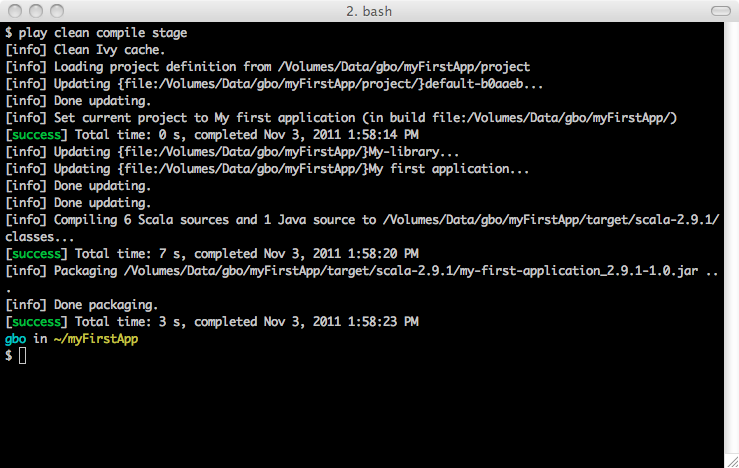
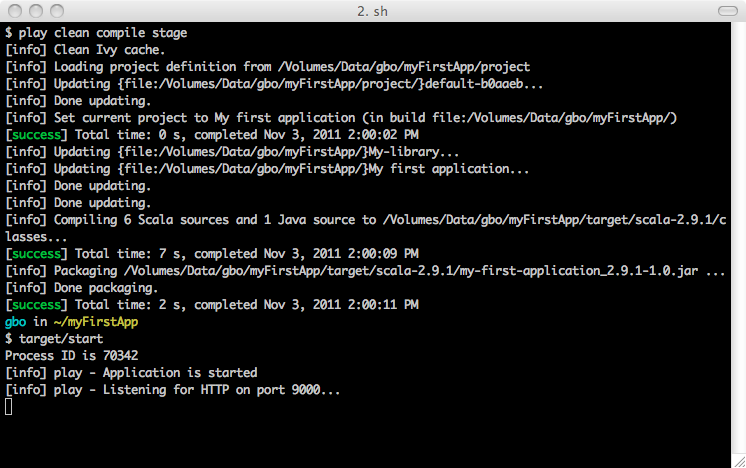
.

Changed region(s): [[0.0, 0.0598, 0.9959, 0.8675], [0.4668, 0.0, 0.5291, 0.0598]]

diff --git a/production/ProductionStart.md b/production/ProductionStart.md
@@ -41,3 +41,19 @@ $ play clean compile stage
 ```
 
 [[stage.png]]
+
+It will clean and compile your application and retrieve every needed dependencies in the `target/staged` directory. It will also create a `target/start` script that will run the Play server.
+
+So you can directly start your application using:
+
+```bash
+$ target/start
+```
+
+The generated `start` script is really simple and you can directly issue the command yourself if needed:
+
+```bash
+#! /usr/bin/env sh
+
+java "$@" -cp "`dirname $0`/staged/*" play.core.server.NettyServer `dirname $0`/..
+```
